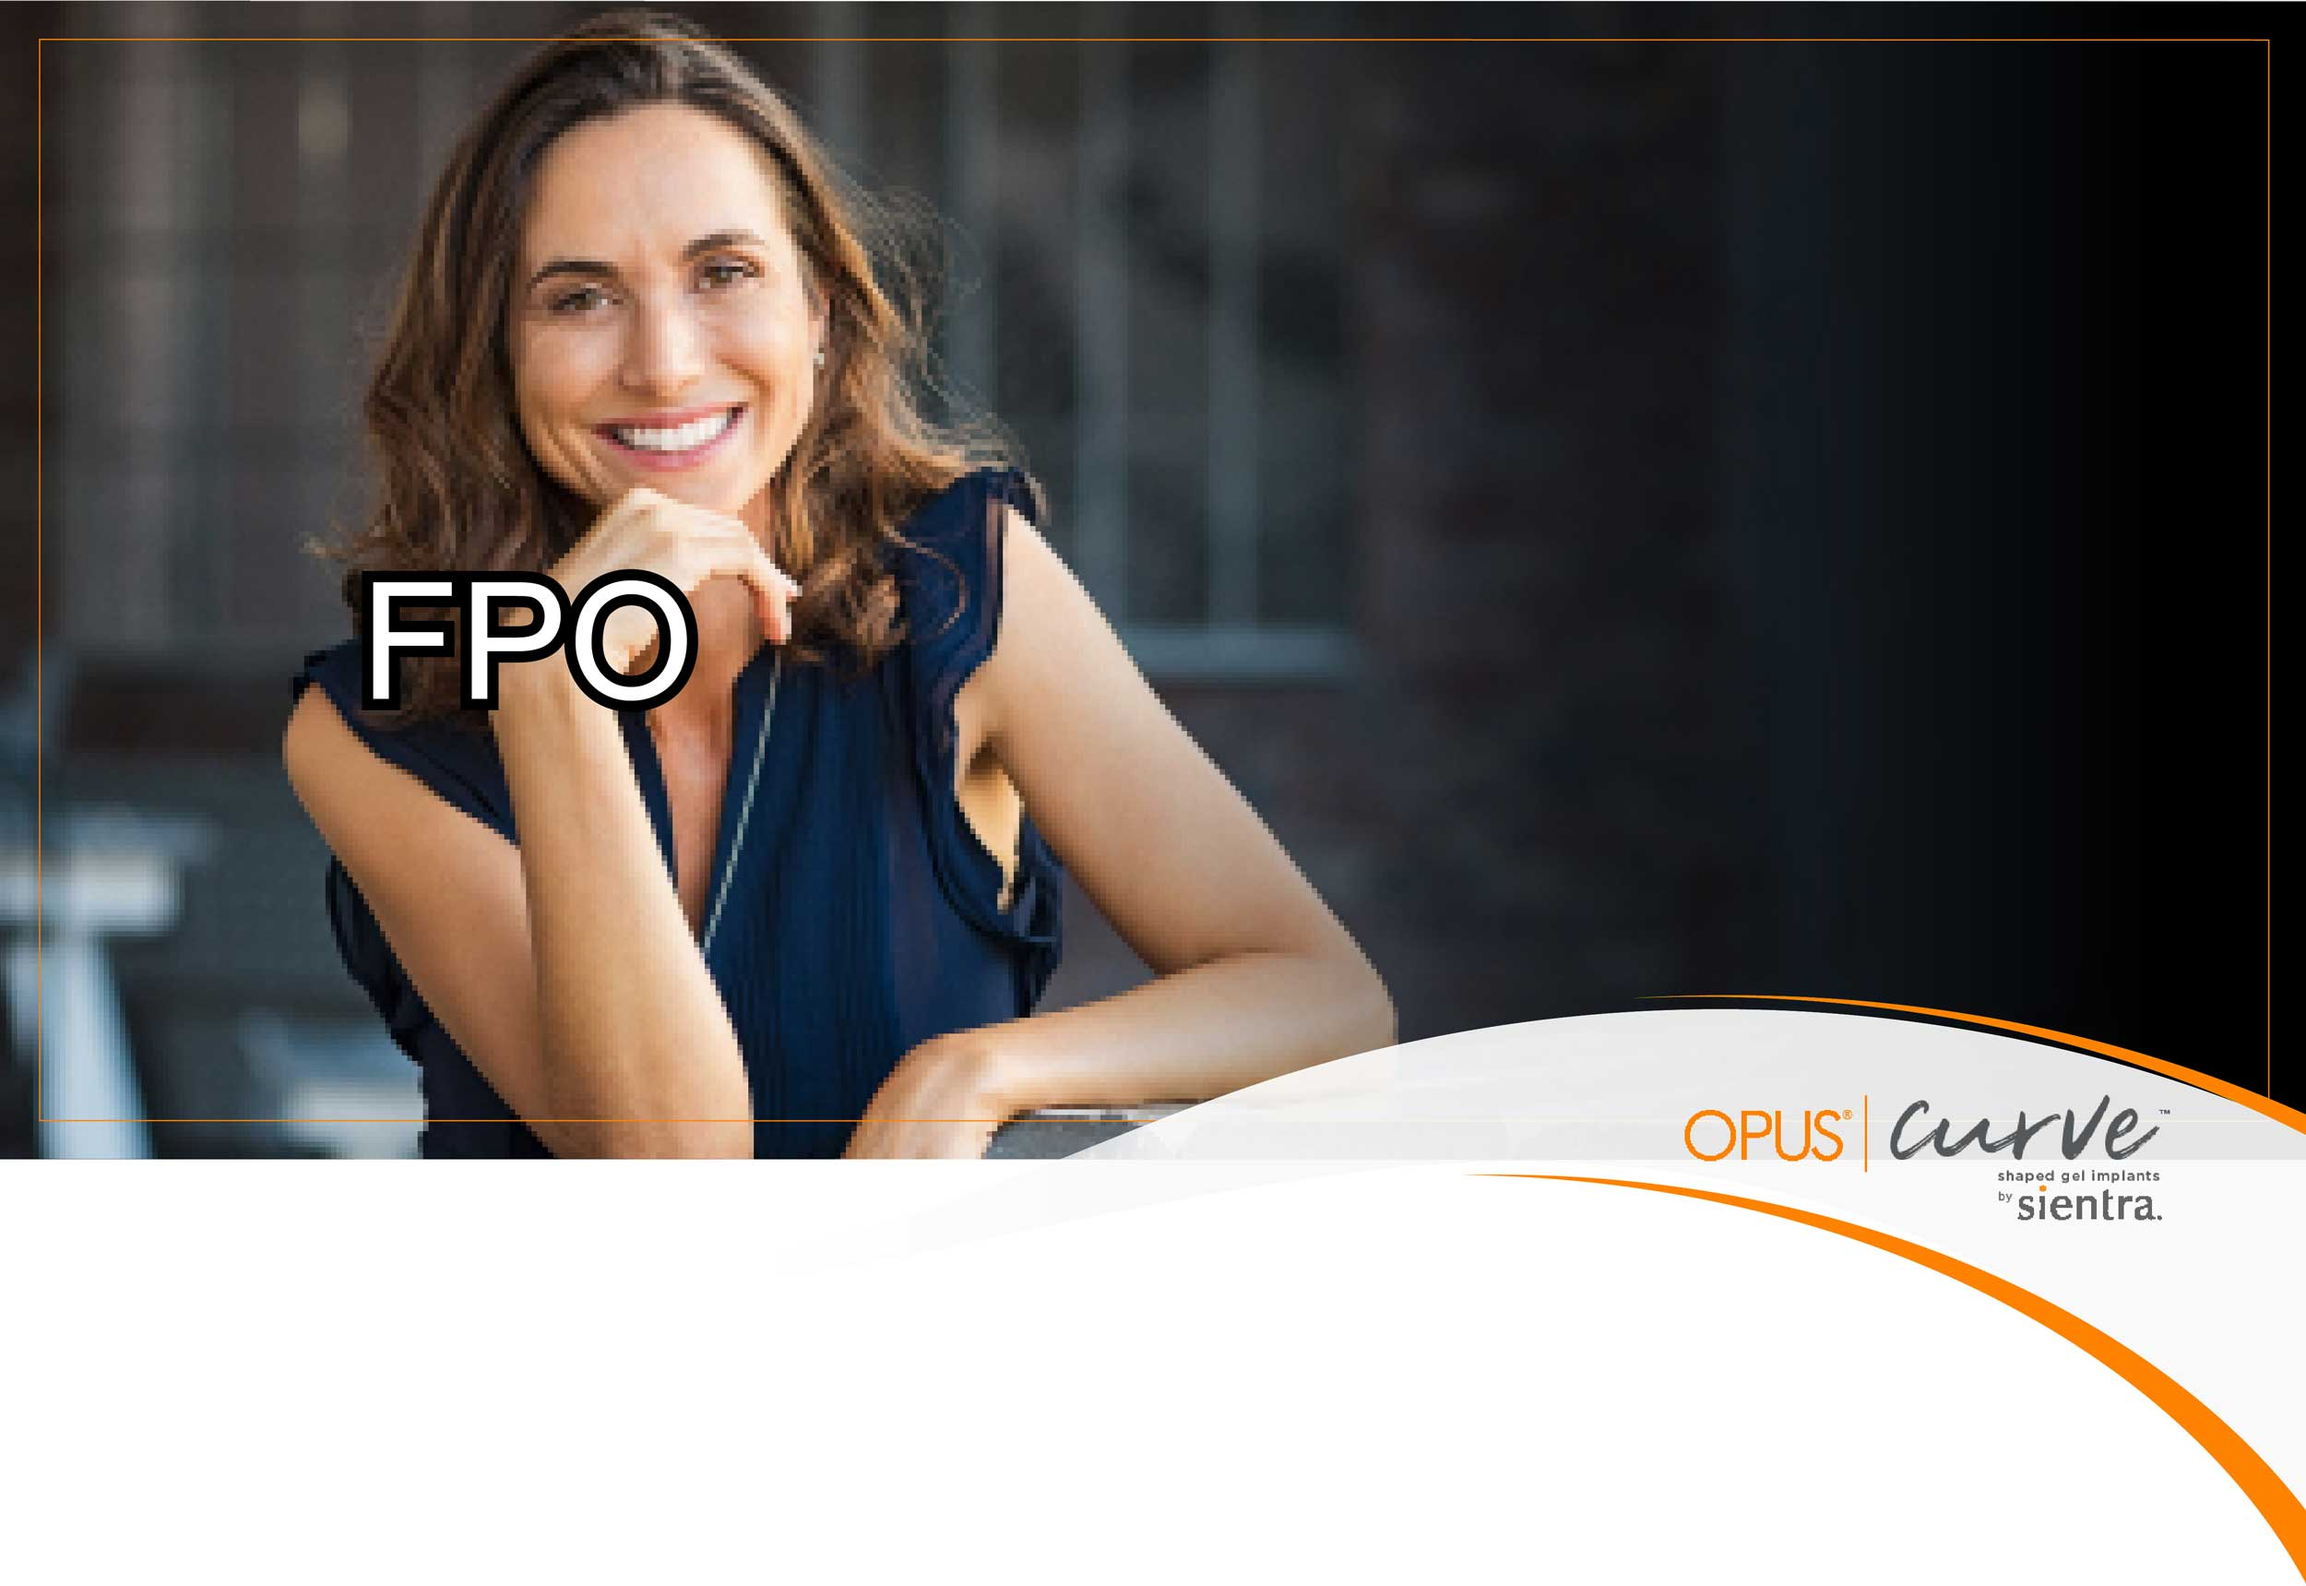
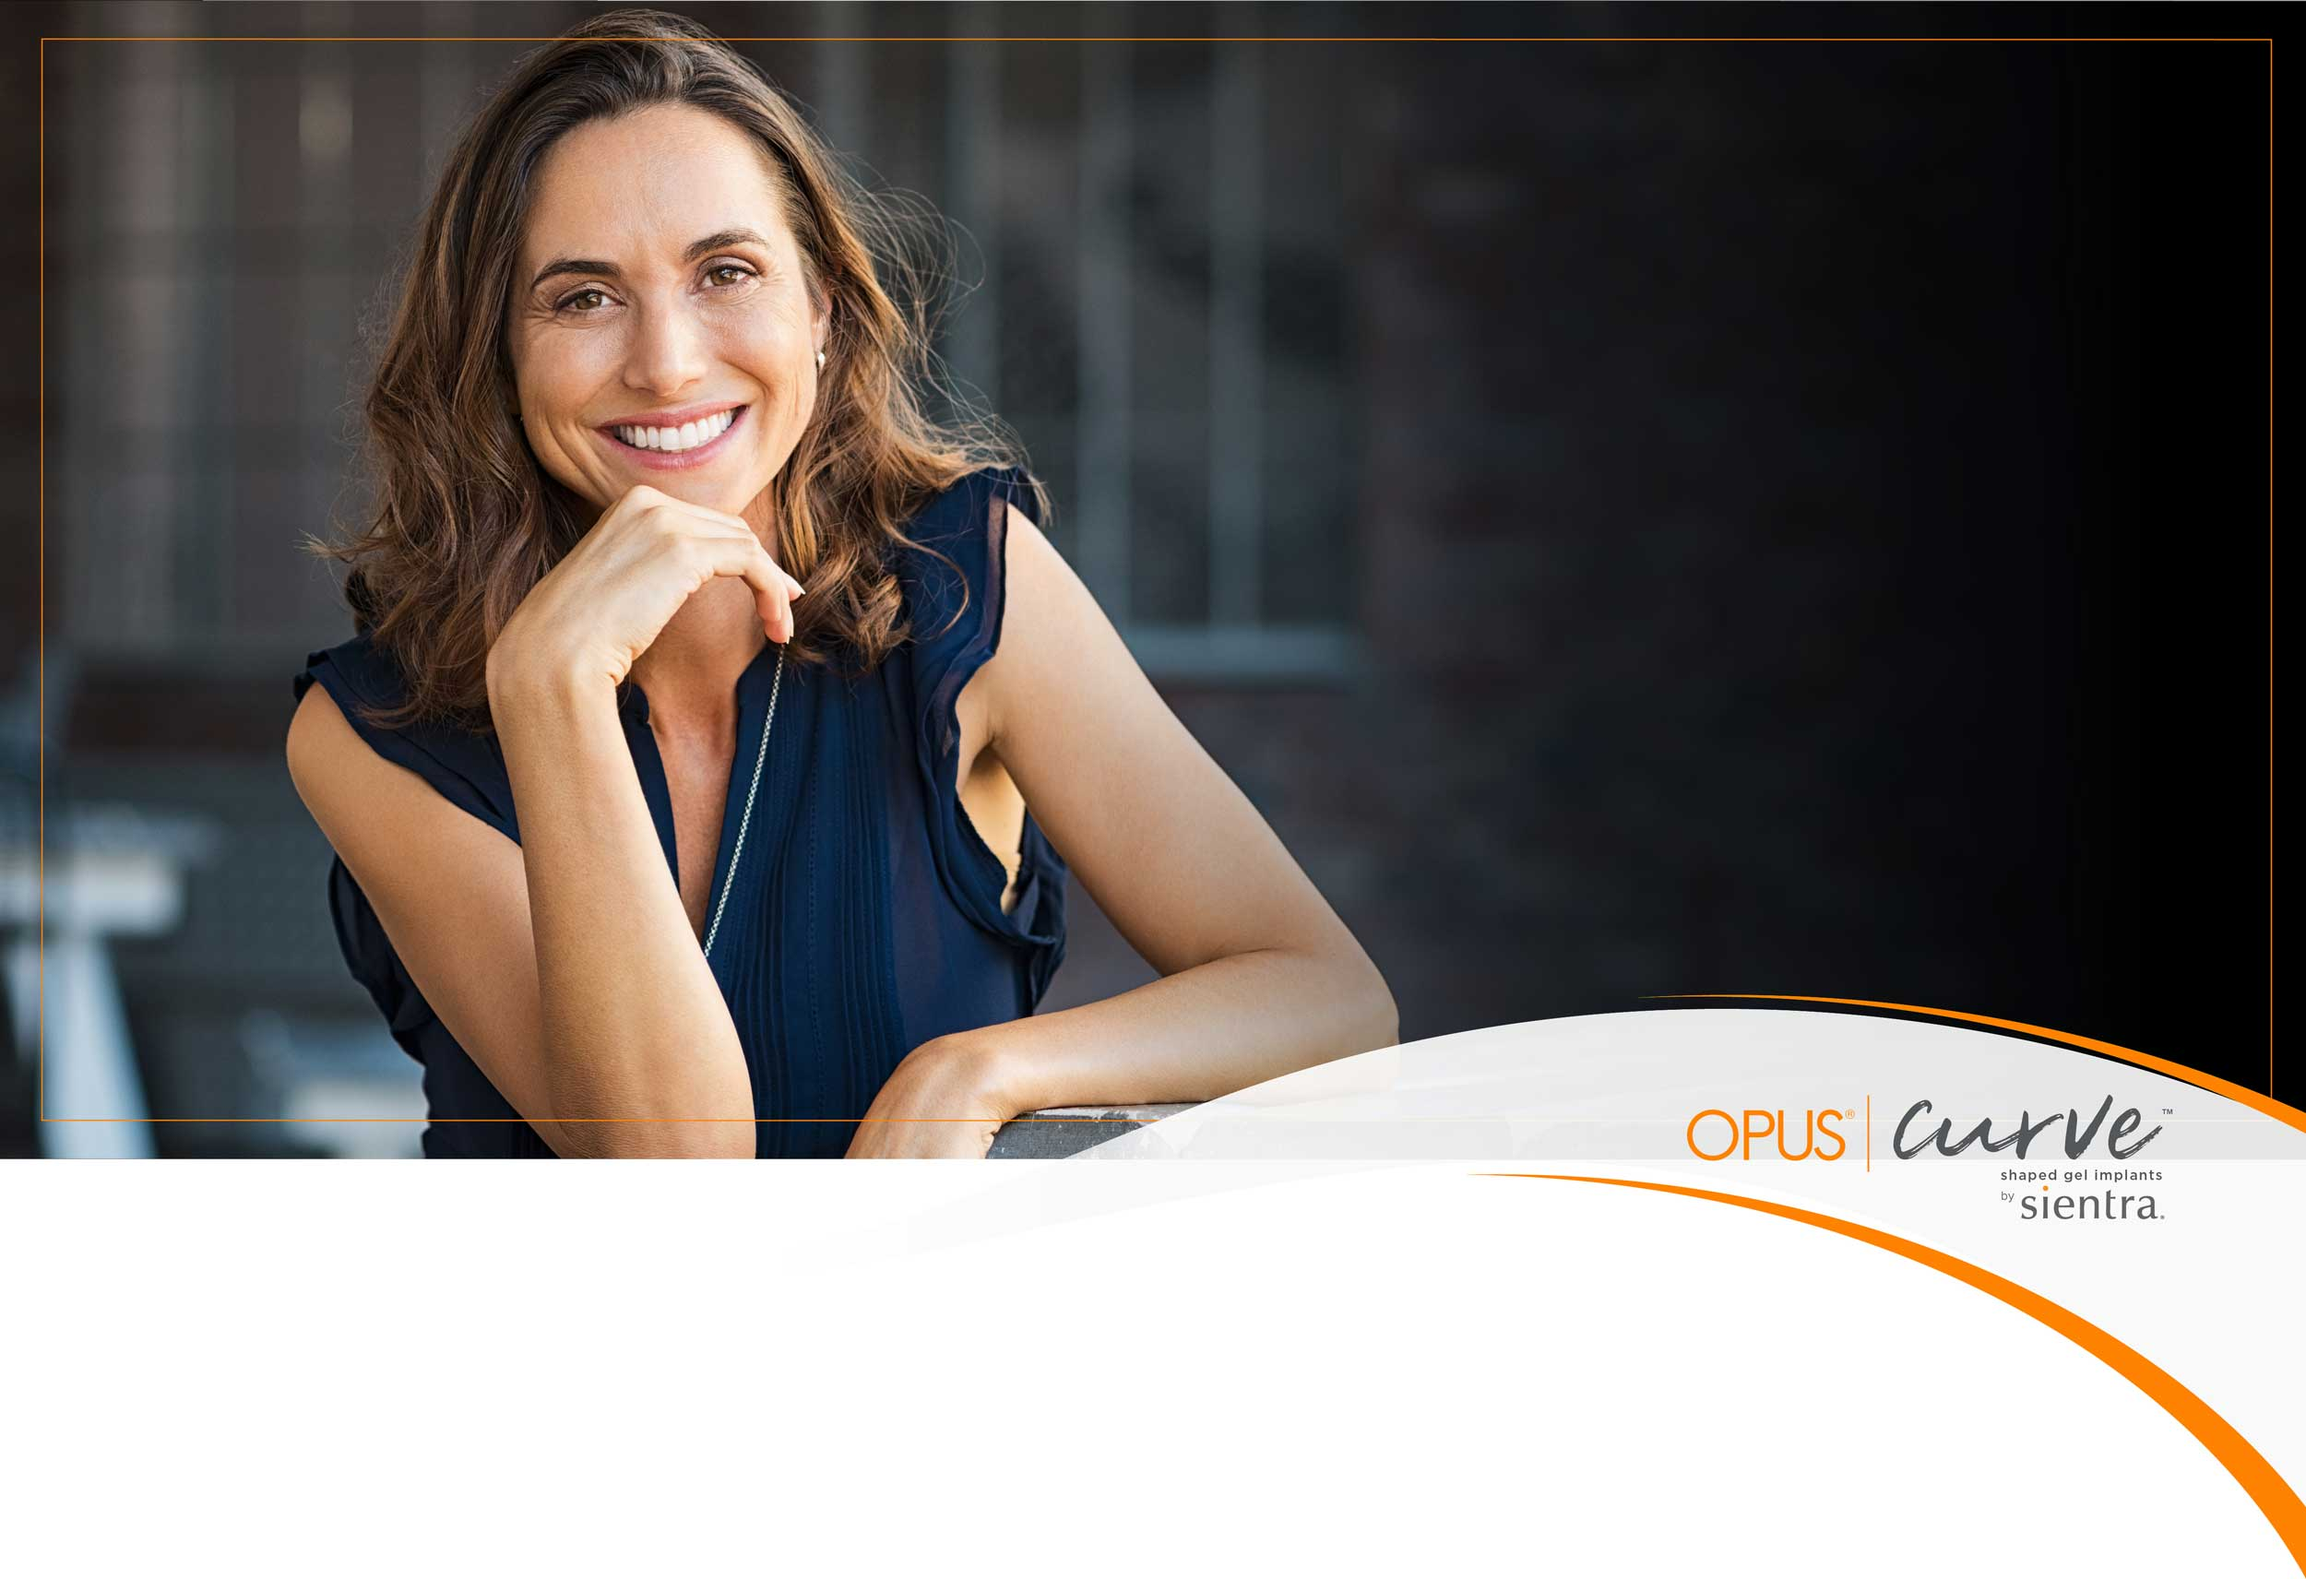
pages

diff --git a/web/app/themes/sientra-theme/resources/views/partials/content-page-reconstruction-home.blade.php b/web/app/themes/sientra-theme/resources/views/partials/content-page-reconstruction-home.blade.php
@@ -60,7 +60,7 @@
   <div class="wrap px-0 pl-lg-3">  	
   	
   	<div class="col-12 col-lg-5 model text-left px-0 pl-lg-3">
-      <img src="@asset('images/timing.png')" alt="timing" width="708" height="834" />
+      <img src="@asset('images/timing.jpg')" alt="timing" width="708" height="834" />
   	</div>
 
   	<div class="col-12 col-lg-8 message">
